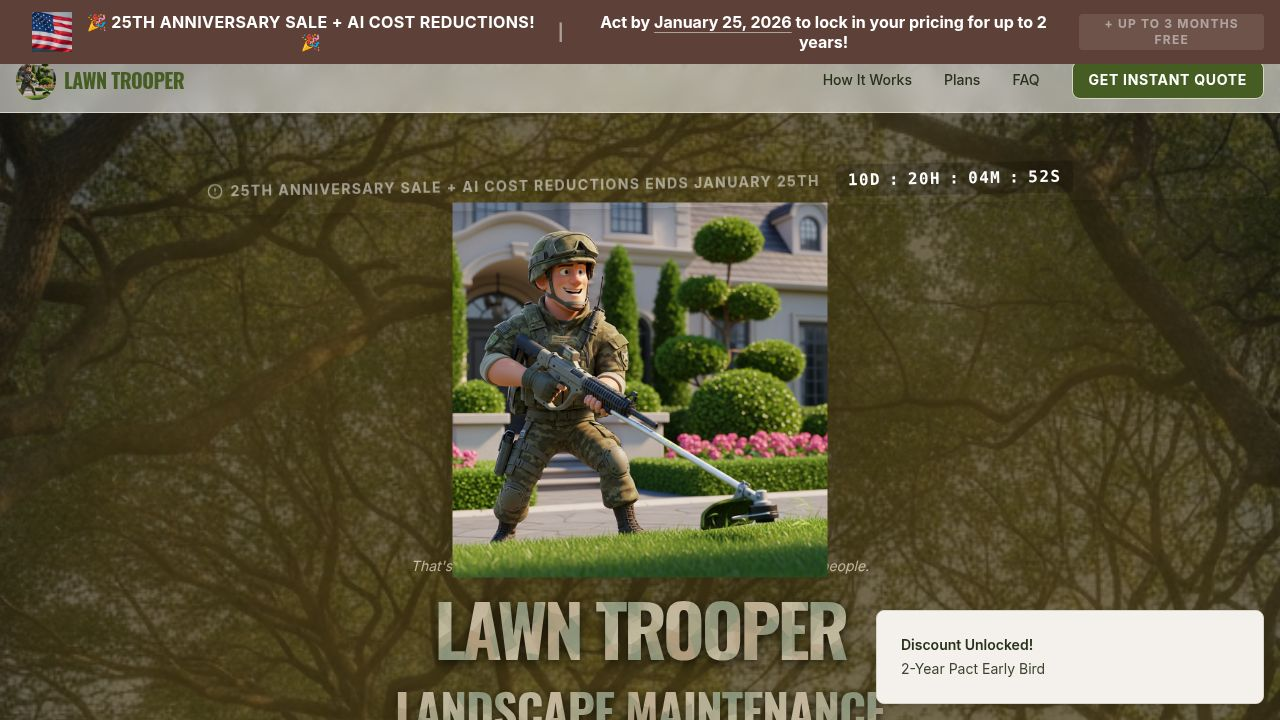
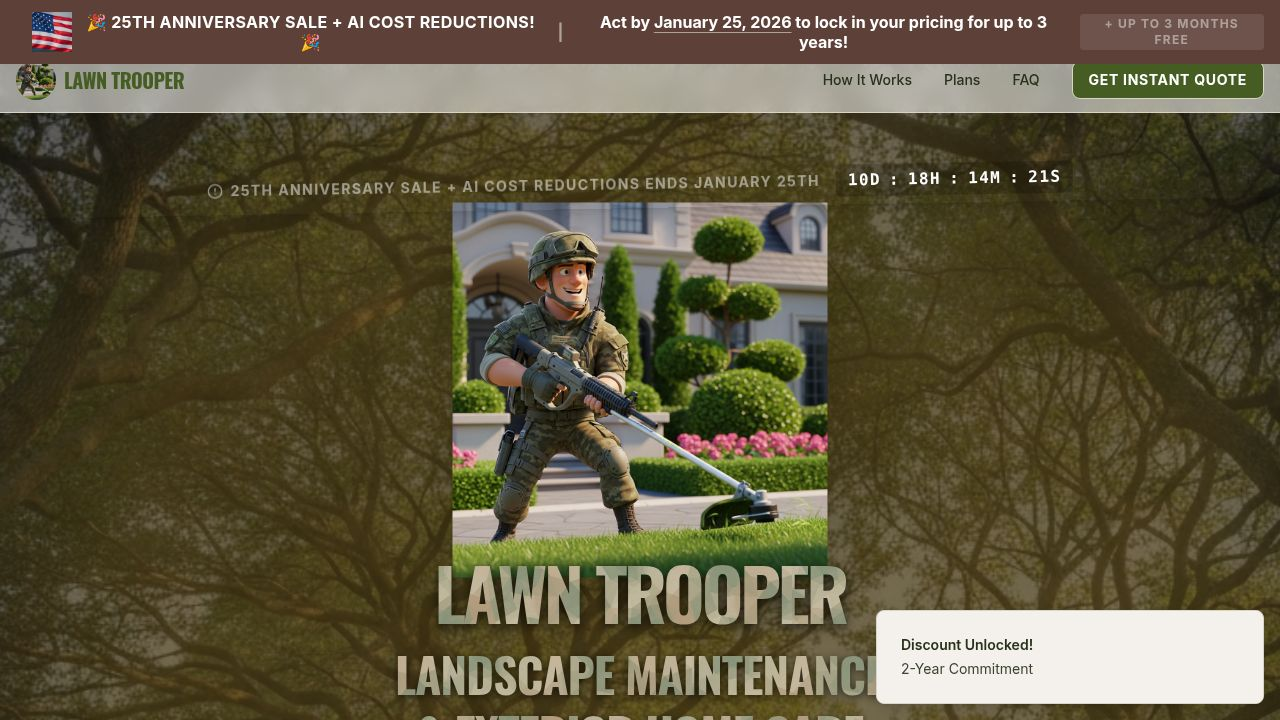
Update pricing, plans, and confirmation messages for lawn care services
Adjusted contract term display to include 3-year option, added loyalty benefits section to the confirmation page, and introduced a compact plan comparison table. Updated homepage promotional messaging to reflect longer contract terms and increased free months.

Replit-Commit-Author: Agent
Replit-Commit-Session-Id: 95b4fb88-1a1b-43ec-b2f9-5c444428cc16
Replit-Commit-Checkpoint-Type: intermediate_checkpoint
Replit-Commit-Event-Id: 754fbc47-a6fb-408b-b1ef-88a1227c48f4
Replit-Commit-Screenshot-Url: https://storage.googleapis.com/screenshot-production-us-central1/272d6f3a-6d6e-4d82-9048-783487746b88/95b4fb88-1a1b-43ec-b2f9-5c444428cc16/hdIkKmY
Replit-Helium-Checkpoint-Created: true

diff --git a/client/src/pages/home.tsx b/client/src/pages/home.tsx
@@ -156,9 +156,9 @@ export default function LandingPage() {
            </div>
            <span className="uppercase tracking-wide md:pl-16">🎉 25th Anniversary Sale + AI Cost Reductions! 🎉</span>
            <span className="hidden md:inline mx-2 text-white/50">|</span>
-           <span>Act by <span className="underline decoration-white/50 underline-offset-4">January 25, 2026</span> to lock in your pricing for up to 2 years!</span>
+           <span>Act by <span className="underline decoration-white/50 underline-offset-4">January 25, 2026</span> to lock in your pricing for up to 3 years!</span>
            <span className="bg-white/20 px-2 py-0.5 rounded text-xs uppercase tracking-widest ml-1 animate-pulse">
-             + Up to 3 Months Free
+             + Up to 6 Months Free
            </span>
         </div>
       </div>
@@ -266,7 +266,7 @@ export default function LandingPage() {
             
             <div className="mt-6 flex flex-col items-center gap-4">
                <div className="inline-block bg-accent text-accent-foreground font-bold px-4 py-1.5 rounded-full animate-pulse shadow-lg border-2 border-white/20">
-                 25th Anniversary Sale + AI Cost Reductions: get up to 3 months free
+                 25th Anniversary Sale + AI Cost Reductions: get up to 6 months free
                </div>
                
                <div className="flex flex-col items-center gap-4 mt-2">
@@ -345,7 +345,7 @@ export default function LandingPage() {
                    <Star className="fill-accent w-6 h-6 animate-pulse" /> 
                  </div>
                  <p className="text-white/90 font-medium text-sm bg-accent/10 px-3 py-1 rounded-full border border-accent/20">
-                   ⚠ Lock in lowest pricing for up to 2 years - Ends Jan 25th!
+                   ⚠ Lock in lowest pricing for up to 3 years - Ends Jan 25th!
                  </p>
                </div>
                
@@ -353,28 +353,28 @@ export default function LandingPage() {
                  {/* Deal 1: Early Bird Special */}
                  <div className="bg-accent/10 p-3 rounded border border-accent/50 hover:bg-accent/20 transition-colors relative">
                    <div className="absolute -top-2 -right-2">
-                     <span className="bg-green-500 text-white text-[10px] font-bold px-2 py-0.5 rounded-full shadow-sm animate-pulse">EARLY BIRD ONLY</span>
+                     <span className="bg-green-500 text-white text-[10px] font-bold px-2 py-0.5 rounded-full shadow-sm animate-pulse">EARLY BIRD</span>
                    </div>
                    <div className="flex items-center gap-2 mb-1">
                      <Calendar className="w-4 h-4 text-accent" />
-                     <span className="text-accent font-bold uppercase text-xs">Sign Up By Jan 25th</span>
+                     <span className="text-accent font-bold uppercase text-xs">Sign Up by Apr 25th</span>
                    </div>
                    <div className="text-white text-sm font-medium">
-                     <div className="flex justify-between items-center mb-1"><span>2-Year Pact:</span> <span className="text-green-400 font-bold bg-green-900/40 px-1.5 rounded">3 Months Free</span></div>
-                     <div className="flex justify-between items-center mb-1"><span>1-Year Pact:</span> <span className="text-green-400 font-bold bg-green-900/40 px-1.5 rounded">1 Month Free</span></div>
-                     <div className="flex justify-between items-center"><span>Renters:</span> <span className="text-green-400 font-bold bg-green-900/40 px-1.5 rounded">5% OFF</span></div>
+                     <div className="text-green-400 font-bold text-center py-1 bg-green-900/40 rounded">Up to 3 Extra Months Free</div>
+                     <div className="text-white/70 text-xs mt-1 text-center">Hurry - benefit decreases each month!</div>
                    </div>
                  </div>
 
-                 {/* Deal 2: Pay Upfront */}
+                 {/* Deal 2: Commitment Rewards */}
                  <div className="bg-white/5 p-3 rounded border border-white/10 hover:border-accent/50 transition-colors">
                    <div className="flex items-center gap-2 mb-1">
                      <Zap className="w-4 h-4 text-accent" />
-                     <span className="text-accent font-bold uppercase text-xs">Pay Upfront (Full Term)</span>
+                     <span className="text-accent font-bold uppercase text-xs">Commitment Rewards</span>
                    </div>
                    <div className="text-white text-sm font-medium">
-                     <div className="flex justify-between"><span>2-Year Term:</span> <span className="text-green-400 font-bold">15% OFF</span></div>
-                     <div className="flex justify-between"><span>1-Year Term:</span> <span className="text-green-400 font-bold">10% OFF</span></div>
+                     <div className="flex justify-between"><span>1-Year:</span> <span className="text-green-400 font-bold">1 Month Free</span></div>
+                     <div className="flex justify-between"><span>2-Year:</span> <span className="text-green-400 font-bold">2 Months Free</span></div>
+                     <div className="flex justify-between"><span>3-Year:</span> <span className="text-green-400 font-bold">3 Months Free</span></div>
                    </div>
                  </div>
 
@@ -390,14 +390,14 @@ export default function LandingPage() {
                    </div>
                  </div>
 
-                 {/* Deal 4: Stackable */}
+                 {/* Deal 4: Pay in Full Bonus */}
                  <div className="bg-white/5 p-3 rounded border border-white/10 hover:border-accent/50 transition-colors">
                    <div className="flex items-center gap-2 mb-1">
                      <Star className="w-4 h-4 text-accent" />
-                     <span className="text-accent font-bold uppercase text-xs">Total Savings</span>
+                     <span className="text-accent font-bold uppercase text-xs">Pay in Full Bonus</span>
                    </div>
                    <div className="text-white text-sm font-medium leading-relaxed">
-                     Stack incentives for up to <span className="text-green-400 font-bold">30% OFF</span> and 3 free months.
+                     Pay upfront for <span className="text-green-400 font-bold">+1 Additional Month Free</span>
                    </div>
                  </div>
                </div>
@@ -405,7 +405,7 @@ export default function LandingPage() {
                {/* Existing Customer Message */}
                <div className="mt-4 text-center space-y-2">
                   <p className="text-green-400 font-bold text-base md:text-lg bg-green-900/30 inline-block px-4 py-1 rounded-full border border-green-500/30 shadow-lg">
-                    Save up to $2,000+/year with stacked promotions on Executive plans.
+                    Stack all rewards for up to 6 FREE months on any plan!
                   </p>
                   <p className="text-xs text-white/60 italic block">{GLOBAL_CONSTANTS.EXISTING_CUSTOMER_LOYALTY}</p>
                </div>
@@ -582,12 +582,6 @@ export default function LandingPage() {
                 <li className="flex items-center gap-2 md:justify-start justify-center"><Check className="w-4 h-4 text-accent" /> Refer a Neighbor: <strong>You BOTH get 1 Month FREE!</strong></li>
               </ul>
             </div>
-            <Button 
-              onClick={() => scrollToSection('quote')} 
-              className="bg-accent hover:bg-accent/90 text-accent-foreground font-bold uppercase tracking-wider px-6 py-3"
-            >
-              Get Your Free Quote
-            </Button>
           </div>
         </div>
       </section>
@@ -697,6 +691,73 @@ export default function LandingPage() {
                 </div>
               </div>
             </div>
+          </div>
+        </div>
+      </section>
+
+      {/* HOA Partnership Section */}
+      <section id="hoa-partnership" className="py-16 bg-muted/30 border-t border-border">
+        <div className="container mx-auto px-4 max-w-2xl">
+          <div className="text-center mb-8">
+            <h2 className="text-2xl md:text-3xl font-heading font-bold text-primary mb-2">HOA Partnership Program</h2>
+            <p className="text-muted-foreground">
+              If your HOA partners with Lawn Trooper, residents receive additional benefits.
+            </p>
+          </div>
+          
+          <div className="bg-card rounded-xl p-6 shadow-lg border border-border">
+            <form className="space-y-4" onSubmit={(e) => { e.preventDefault(); }}>
+              <div>
+                <label className="block text-sm font-medium text-muted-foreground mb-1">HOA Name</label>
+                <input 
+                  type="text" 
+                  data-testid="input-hoa-name"
+                  placeholder="e.g., Oakwood Estates HOA"
+                  className="w-full px-3 py-2 rounded-lg border border-input bg-background text-sm focus:outline-none focus:ring-2 focus:ring-primary/20"
+                />
+              </div>
+              <div className="grid md:grid-cols-2 gap-4">
+                <div>
+                  <label className="block text-sm font-medium text-muted-foreground mb-1">Contact Name</label>
+                  <input 
+                    type="text" 
+                    data-testid="input-hoa-contact-name"
+                    placeholder="Your name"
+                    className="w-full px-3 py-2 rounded-lg border border-input bg-background text-sm focus:outline-none focus:ring-2 focus:ring-primary/20"
+                  />
+                </div>
+                <div>
+                  <label className="block text-sm font-medium text-muted-foreground mb-1">Phone</label>
+                  <input 
+                    type="tel" 
+                    data-testid="input-hoa-phone"
+                    placeholder="(256) 555-0000"
+                    className="w-full px-3 py-2 rounded-lg border border-input bg-background text-sm focus:outline-none focus:ring-2 focus:ring-primary/20"
+                  />
+                </div>
+              </div>
+              <div>
+                <label className="block text-sm font-medium text-muted-foreground mb-1">Email</label>
+                <input 
+                  type="email" 
+                  data-testid="input-hoa-email"
+                  placeholder="contact@hoa.com"
+                  className="w-full px-3 py-2 rounded-lg border border-input bg-background text-sm focus:outline-none focus:ring-2 focus:ring-primary/20"
+                />
+              </div>
+              <div>
+                <label className="block text-sm font-medium text-muted-foreground mb-1">Notes / Directions</label>
+                <textarea 
+                  data-testid="input-hoa-notes"
+                  placeholder="Any additional information about your HOA..."
+                  rows={3}
+                  className="w-full px-3 py-2 rounded-lg border border-input bg-background text-sm focus:outline-none focus:ring-2 focus:ring-primary/20 resize-none"
+                />
+              </div>
+              <Button type="submit" data-testid="button-submit-hoa" className="w-full bg-primary hover:bg-primary/90 text-white font-bold uppercase tracking-wider">
+                Submit HOA Inquiry
+              </Button>
+            </form>
           </div>
         </div>
       </section>

diff --git a/client/src/components/MultiStepQuoteWizard.tsx b/client/src/components/MultiStepQuoteWizard.tsx
@@ -664,6 +664,46 @@ export default function MultiStepQuoteWizard({ onClose, isModal = false }: Multi
                     <h4 className="text-2xl font-bold text-primary mb-2">Choose Your Plan Tier</h4>
                     <p className="text-muted-foreground">All prices reflect 2026 AI-Savings discount</p>
                   </div>
+
+                  {/* Compact Plan Comparison */}
+                  <div className="bg-muted/30 rounded-xl p-4 border border-border mb-4 overflow-x-auto">
+                    <table className="w-full text-sm">
+                      <thead>
+                        <tr className="border-b border-border">
+                          <th className="text-left py-2 pr-2 text-muted-foreground font-medium">Feature</th>
+                          <th className="text-center py-2 px-2 font-bold text-primary">Basic</th>
+                          <th className="text-center py-2 px-2 font-bold text-primary">Premium</th>
+                          <th className="text-center py-2 px-2 font-bold text-accent">Executive</th>
+                        </tr>
+                      </thead>
+                      <tbody>
+                        <tr className="border-b border-border/50">
+                          <td className="py-2 pr-2 text-muted-foreground">Mowing</td>
+                          <td className="py-2 px-2 text-center">Bi-Weekly</td>
+                          <td className="py-2 px-2 text-center font-medium text-primary">Weekly</td>
+                          <td className="py-2 px-2 text-center font-bold text-accent">Weekly</td>
+                        </tr>
+                        <tr className="border-b border-border/50">
+                          <td className="py-2 pr-2 text-muted-foreground">Weed Control</td>
+                          <td className="py-2 px-2 text-center">2 Apps</td>
+                          <td className="py-2 px-2 text-center">2 Apps</td>
+                          <td className="py-2 px-2 text-center font-bold text-accent">6 Apps</td>
+                        </tr>
+                        <tr className="border-b border-border/50">
+                          <td className="py-2 pr-2 text-muted-foreground">Bush Trimming</td>
+                          <td className="py-2 px-2 text-center">1x/Year</td>
+                          <td className="py-2 px-2 text-center">2x/Year</td>
+                          <td className="py-2 px-2 text-center font-bold text-accent">3x/Year</td>
+                        </tr>
+                        <tr>
+                          <td className="py-2 pr-2 text-muted-foreground">Add-ons Included</td>
+                          <td className="py-2 px-2 text-center">1</td>
+                          <td className="py-2 px-2 text-center font-medium text-primary">3</td>
+                          <td className="py-2 px-2 text-center font-bold text-accent">5</td>
+                        </tr>
+                      </tbody>
+                    </table>
+                  </div>
                   
                   <div className="grid md:grid-cols-3 gap-4">
                     {PLANS.map((p) => {

diff --git a/client/src/components/MissionAccomplished.tsx b/client/src/components/MissionAccomplished.tsx
@@ -279,7 +279,9 @@ Contact: info@lawntrooper.com | (256) 555-LAWN
             <div className="border-t border-primary/10 pt-4 mb-4 grid grid-cols-2 gap-4">
               <div>
                 <span className="text-xs text-muted-foreground uppercase font-bold">Contract Term</span>
-                <p className="font-bold text-primary">{quoteData.term === '2-year' ? '2-Year Pact' : '1-Year Pact'}</p>
+                <p className="font-bold text-primary">
+                  {quoteData.term === '3-year' ? '3-Year Pact' : quoteData.term === '2-year' ? '2-Year Pact' : '1-Year Pact'}
+                </p>
               </div>
               <div>
                 <span className="text-xs text-muted-foreground uppercase font-bold">Payment</span>
@@ -288,10 +290,30 @@ Contact: info@lawntrooper.com | (256) 555-LAWN
             </div>
           )}
 
+          {/* Operation Price Drop - Loyalty Benefits */}
+          <div className="border-t border-primary/10 pt-4 mb-4">
+            <span className="text-xs text-muted-foreground uppercase font-bold block mb-2">Future Loyalty Benefits</span>
+            <div className="bg-gradient-to-r from-green-50 to-emerald-50 rounded-lg p-3 border border-green-200">
+              <p className="text-xs font-bold text-green-800 mb-2">Operation Price Drop - Your Future Savings:</p>
+              <div className="flex gap-4 text-xs text-green-700">
+                <span>After Year 1: <strong>5% off</strong></span>
+                <span>After Year 2: <strong>10% off</strong></span>
+                <span>After Year 3: <strong>15% off</strong></span>
+              </div>
+              <p className="text-xs text-green-600 mt-2 italic">Loyalty rewarded automatically on renewal.</p>
+            </div>
+          </div>
+
           <div className="border-t border-primary/10 pt-4 flex items-center justify-between">
             <span className="text-sm text-muted-foreground">Monthly Total</span>
             <span className="text-2xl font-bold text-primary">${quoteData.totalPrice}/mo</span>
           </div>
+        </div>
+
+        {/* No Obligation Message */}
+        <div className="bg-accent/10 rounded-xl p-4 border border-accent/30 text-center">
+          <p className="text-lg font-bold text-primary mb-1">No payment required. No obligation.</p>
+          <p className="text-sm text-accent font-medium">Free Dream Yard Recon.</p>
         </div>
 
         {/* Trust & Privacy Message */}

diff --git a/client/src/data/plans.ts b/client/src/data/plans.ts
@@ -25,6 +25,7 @@ export const PLANS = [
     keyStats: [
       { label: "Mowing", value: "Bi-Weekly" },
       { label: "Weed Control", value: "2 Treatments" },
+      { label: "Bush Trimming", value: "1x/Year" },
       { label: "Add-ons", value: "1 Included" }
     ],
     features: [
@@ -57,6 +58,7 @@ export const PLANS = [
     keyStats: [
       { label: "Mowing", value: "Weekly" },
       { label: "Weed Control", value: "2 Treatments" },
+      { label: "Bush Trimming", value: "2x/Year" },
       { label: "Add-ons", value: "3 Included" }
     ],
     features: [
@@ -89,6 +91,7 @@ export const PLANS = [
     keyStats: [
       { label: "Mowing", value: "Weekly" },
       { label: "Weed Control", value: "6 Treatments" },
+      { label: "Bush Trimming", value: "3x/Year" },
       { label: "Add-ons", value: "5 Included" }
     ],
     features: [
